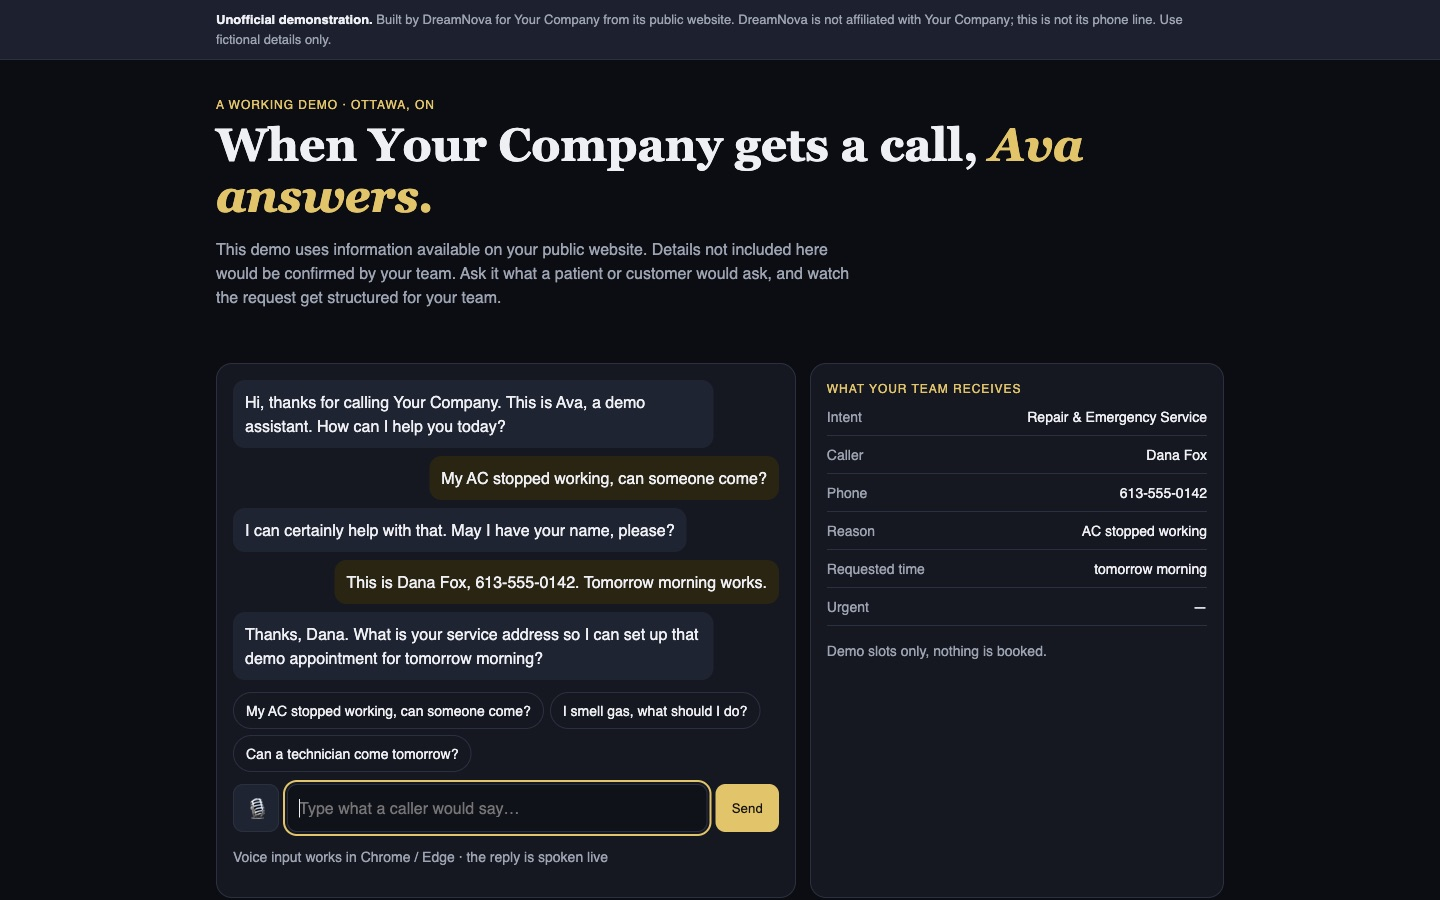
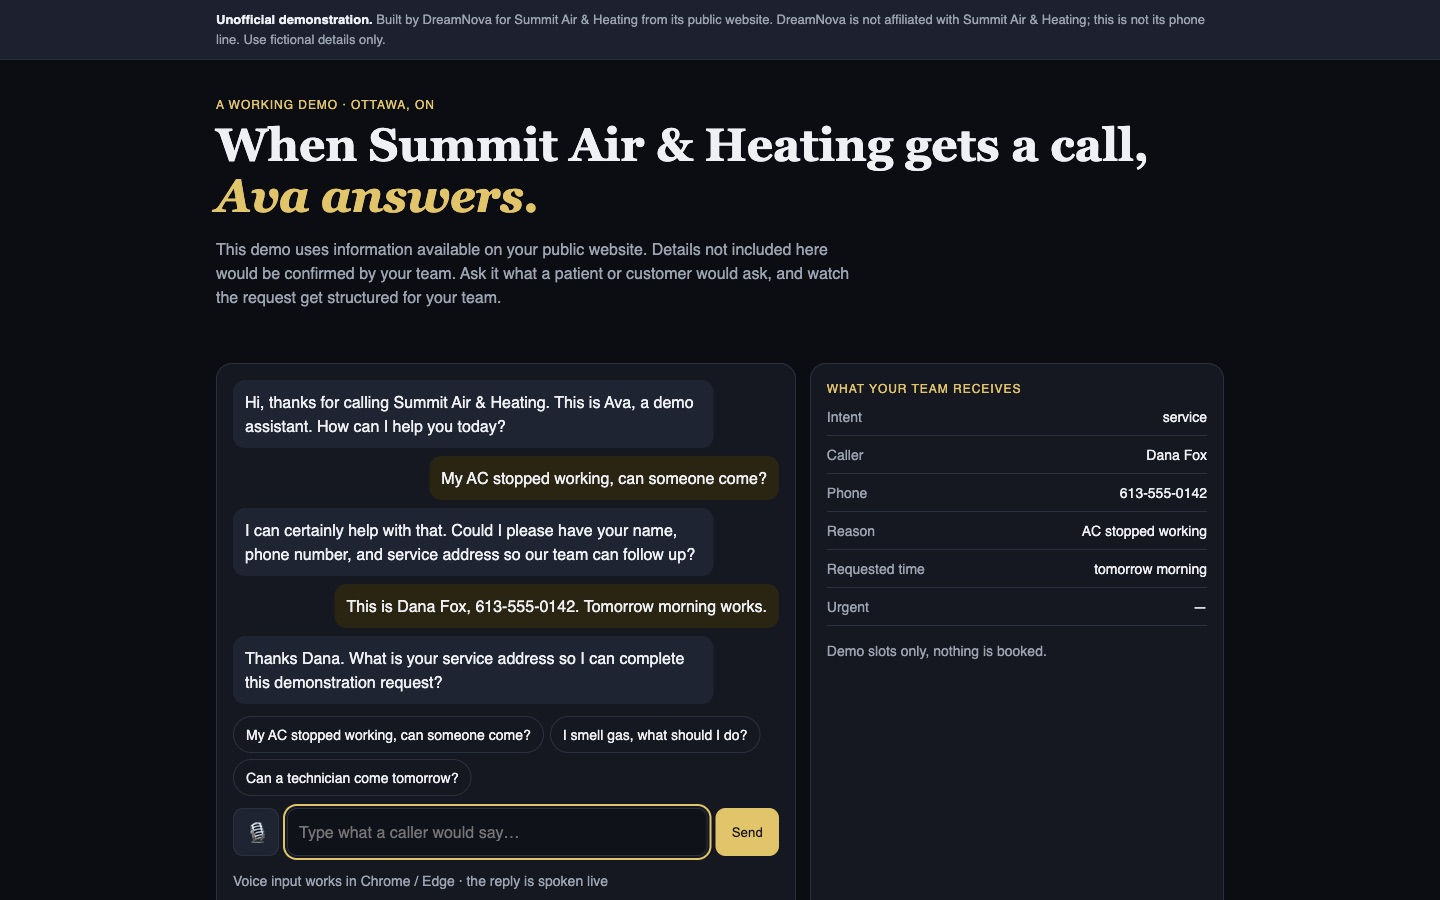
fix(jury-2): fictional brand in capture, grouped ledger, mobile hero proof, tighter rhythm

diff --git a/index.html b/index.html
@@ -75,7 +75,12 @@ em{font-family:var(--f-accent);font-style:italic;font-weight:400}
 @keyframes spin{to{transform:rotate(360deg)}}
 .hero__in{position:relative;z-index:2;padding-bottom:clamp(28px,5vh,56px)}
 .hero__art{display:none}
+.hero__peek{display:block;position:relative;margin-top:26px;border-radius:18px;overflow:hidden;height:200px;box-shadow:0 0 0 1px rgba(240,217,140,.25),0 30px 60px -30px #000}
+.hero__peek img{width:100%;height:100%;object-fit:cover;object-position:top}
+.hero__peek span{position:absolute;left:10px;bottom:10px;padding:7px 11px;border-radius:999px;font:500 11px/1 var(--f-mono);letter-spacing:.05em;color:var(--gold-lt);background:rgba(5,4,3,.82);backdrop-filter:blur(8px)}
+@media (max-width:999px){.hero{min-height:auto;padding-top:92px}}
 @media (min-width:1000px){
+  .hero__peek{display:none}
   .hero__copy{max-width:calc(100% - min(36vw,470px) - 56px)}
   .hero__title{font-size:clamp(64px,7vw,104px)}
 }
@@ -109,7 +114,7 @@ em{font-family:var(--f-accent);font-style:italic;font-weight:400}
 .ticker__item time{color:var(--dim)}
 
 /* sections */
-.block{padding:clamp(72px,11vw,140px) 0;border-bottom:1px solid var(--line2);scroll-margin-top:70px}
+.block{padding:clamp(56px,8vw,108px) 0;border-bottom:1px solid var(--line2);scroll-margin-top:70px}
 .sec-head{max-width:760px}
 .h2{margin-top:20px;font:700 clamp(36px,6.4vw,72px)/.98 var(--f-display);letter-spacing:-.035em}
 .h2 em{color:var(--gold-lt)}
@@ -145,6 +150,8 @@ em{font-family:var(--f-accent);font-style:italic;font-weight:400}
 .chips li{display:inline-flex;align-items:center;gap:8px;min-height:36px;padding:7px 8px 7px 13px;border-radius:999px;font-size:13.5px;color:var(--ink);background:rgba(255,255,255,.045);box-shadow:inset 0 0 0 1px rgba(255,255,255,.09)}
 .chips li b{display:grid;place-items:center;min-width:24px;height:22px;padding:0 6px;border-radius:999px;font:600 11.5px/1 var(--f-mono);color:#140f04;background:linear-gradient(180deg,#f3dc93,#d4af37)}
 .chips li.is-hidden{display:none}
+.grp__also{padding:16px 20px 20px;font-size:14px;color:var(--dim)}
+@media (min-width:860px){.grp__also{padding:18px 28px 22px}}
 .chips button{min-height:44px;padding:7px 16px;border-radius:999px;border:0;cursor:pointer;font:600 13px/1 var(--f-body);color:var(--gold-lt);background:rgba(212,175,55,.1);box-shadow:inset 0 0 0 1px var(--line)}
 
 /* vidéo */
@@ -258,15 +265,16 @@ em{font-family:var(--f-accent);font-style:italic;font-weight:400}
       <div class="hero__copy">
       <p class="eyebrow rv"><span class="dot" aria-hidden="true"></span><span>Live portfolio · <span data-updated>updated recently</span></span></p>
       <h1 class="hero__title rv">Proof before <em>promises.</em></h1>
-      <p class="hero__sub rv">Working <strong>AI receptionists built from real businesses' own websites</strong>, plus the reels and demos behind them. Names stay private. Most of it is <strong>running right now</strong>, so try it before you talk to us.</p>
+      <p class="hero__sub rv"><strong>Every call answered, day and night.</strong> We build an AI receptionist from your own website, and you <strong>try it before you ever talk to us</strong>. Below: real prototypes, reels and live demos, with names withheld.</p>
       <div class="hero__actions rv">
         <a class="btn btn--gold" href="https://dreamnova-voice-demo.vercel.app" target="_blank" rel="noopener"><span>Talk to the live AI receptionist</span><span class="btn__ico" aria-hidden="true">↗</span></a>
         <a class="btn btn--glass" href="#voice"><span>See the prototypes</span><span class="btn__ico" aria-hidden="true">↓</span></a>
       </div>
       </div>
+      <a class="hero__peek rv" href="#voice" aria-label="See a real prototype in action"><img src="assets/media/voice_prototype_m.jpg" alt="" width="580" height="540"><span>Real prototype · HVAC company · Ottawa, ON</span></a>
       <div class="stats rv" aria-live="polite">
         <div class="stat"><b data-count="voice">—</b><span>custom voice-agent prototypes</span></div>
-        <div class="stat"><b data-count="cities">—</b><span>cities in the US, Canada and the UK</span></div>
+        <div class="stat"><b data-count="cities">—</b><span>US &amp; Canadian cities</span></div>
         <div class="stat"><b data-latest>—</b><span>latest prototype built</span></div>
       </div>
     </div>
@@ -285,7 +293,7 @@ em{font-family:var(--f-accent);font-style:italic;font-weight:400}
         <figure class="frame rv">
           <div class="frame__bar" aria-hidden="true"><span></span><span></span><span></span><div class="frame__url">prototype · HVAC company · Ottawa, ON</div></div>
           <picture><source media="(max-width:640px)" srcset="assets/media/voice_prototype_m.jpg" width="580" height="540"><img src="assets/media/voice_prototype.jpg" width="1440" height="900" loading="lazy" alt="A voice-agent prototype mid-conversation: the caller reports a broken AC, the agent asks for their details, and a side panel fills in intent, caller, phone, reason and requested time."></picture>
-          <figcaption>A real prototype sent on Oct 22, 2026, shown mid-test. The business name is replaced; the caller and the number are fictional.</figcaption>
+          <figcaption>A real prototype sent on Oct 22, 2026, shown mid-test. The business name and number are swapped for fictional ones, and so is the caller.</figcaption>
         </figure>
         <div class="voice__text rv">
           <h3>What the team receives after every call</h3>
@@ -403,7 +411,7 @@ em{font-family:var(--f-accent);font-style:italic;font-weight:400}
     document.querySelectorAll("[data-updated]").forEach(el => el.textContent = `updated ${fmt(data.updated)}`);
 
     // compteurs
-    const cities = new Set(voice.map(v => v.region).filter(r => r && r.includes(",")));
+    const cities = new Set(voice.map(v => v.region).filter(r => /, [A-Z]{2}$/.test(r) && !r.endsWith(", UK")));
     const counts = {voice: voice.length, cities: cities.size};
     document.querySelectorAll("[data-count]").forEach(el => countUp(el, counts[el.dataset.count]));
     const last = voice.map(v => v.date).sort().pop();
@@ -420,11 +428,13 @@ em{font-family:var(--f-accent);font-style:italic;font-weight:400}
     voice.forEach(v => { const g = sectors.get(v.sector) || {sector: v.sector, n: 0, a: v.date, b: v.date, cities: new Map()}; g.n++; if (v.date < g.a) g.a = v.date; if (v.date > g.b) g.b = v.date;
       const c = g.cities.get(v.region) || {n: 0, b: v.date}; c.n++; if (v.date > c.b) c.b = v.date; g.cities.set(v.region, c); sectors.set(v.sector, g); });
     const SHOW = 12;
-    $("#ledger").innerHTML = [...sectors.values()].sort((x, y) => y.n - x.n).map(g => {
-      const cs = [...g.cities.entries()].sort((x, y) => y[1].b.localeCompare(x[1].b) || y[1].n - x[1].n);
-      return `<div class="grp"><div class="grp__top"><h4>${esc(plural(g.sector, g.n))}</h4><span class="grp__n">${g.n}</span></div><p class="grp__when">${range(g.a, g.b)} · ${cs.length} ${cs.length > 1 ? "locations" : "location"}</p><ul class="chips">${cs.map(([r, c], i) => `<li${i >= SHOW ? ' class="is-hidden"' : ""}>${esc(r)} <b>${c.n}</b></li>`).join("")}</ul>${cs.length > SHOW ? `<div class="chips"><button type="button" data-more>+${cs.length - SHOW} more locations</button></div>` : ""}</div>`; }).join("");
+    const secs = [...sectors.values()].sort((x, y) => y.n - x.n), big = secs.filter(g => g.n >= 3), small = secs.filter(g => g.n < 3);
+    $("#ledger").innerHTML = big.map(g => {
+      const cs = [...g.cities.entries()].sort((x, y) => y[1].n - x[1].n || y[1].b.localeCompare(x[1].b));
+      return `<div class="grp"><div class="grp__top"><h4>${esc(plural(g.sector, g.n))}</h4></div><p class="grp__when">${g.n} prototypes · ${cs.length} locations · ${range(g.a, g.b)}</p><ul class="chips">${cs.map(([r, c], i) => `<li${i >= SHOW ? ' class="is-hidden"' : ""}>${esc(r)} <b>${c.n}</b></li>`).join("")}</ul>${cs.length > SHOW ? `<div class="chips"><button type="button" data-more>+${cs.length - SHOW} more locations</button></div>` : ""}</div>`; }).join("")
+      + (small.length ? `<p class="grp__also">Also: ${small.map(g => `${g.n} prototype${g.n > 1 ? "s" : ""} for a ${esc(g.sector.toLowerCase())} (${esc([...g.cities.keys()].join(", "))})`).join(" · ")}.</p>` : "");
     document.querySelectorAll("[data-more]").forEach(btn => btn.addEventListener("click", () => { btn.closest(".grp").querySelectorAll(".is-hidden").forEach(li => li.classList.remove("is-hidden")); btn.parentElement.remove(); }));
-    $("#ledger-sum").textContent = `${voice.length} prototypes · ${cities.size} cities · names withheld`;
+    $("#ledger-sum").textContent = `${voice.length} prototypes · ${new Set(voice.map(v => v.region)).size} locations · names withheld`;
 
     // reels 9:16
     $("#reels").innerHTML = reels.map(r => `<figure class="reel rv"><video preload="none" playsinline poster="${esc(r.poster)}" src="${esc(r.media)}" aria-label="${esc(r.title)}"></video><button class="reel__play" type="button" aria-label="Play: ${esc(r.title)}"><span aria-hidden="true">▶</span></button><figcaption class="reel__cap"><div class="reel__tag">${esc(r.sector)}${r.region ? " · " + esc(r.region) : ""}</div><div class="reel__t">${esc(r.title)}</div></figcaption></figure>`).join("");
